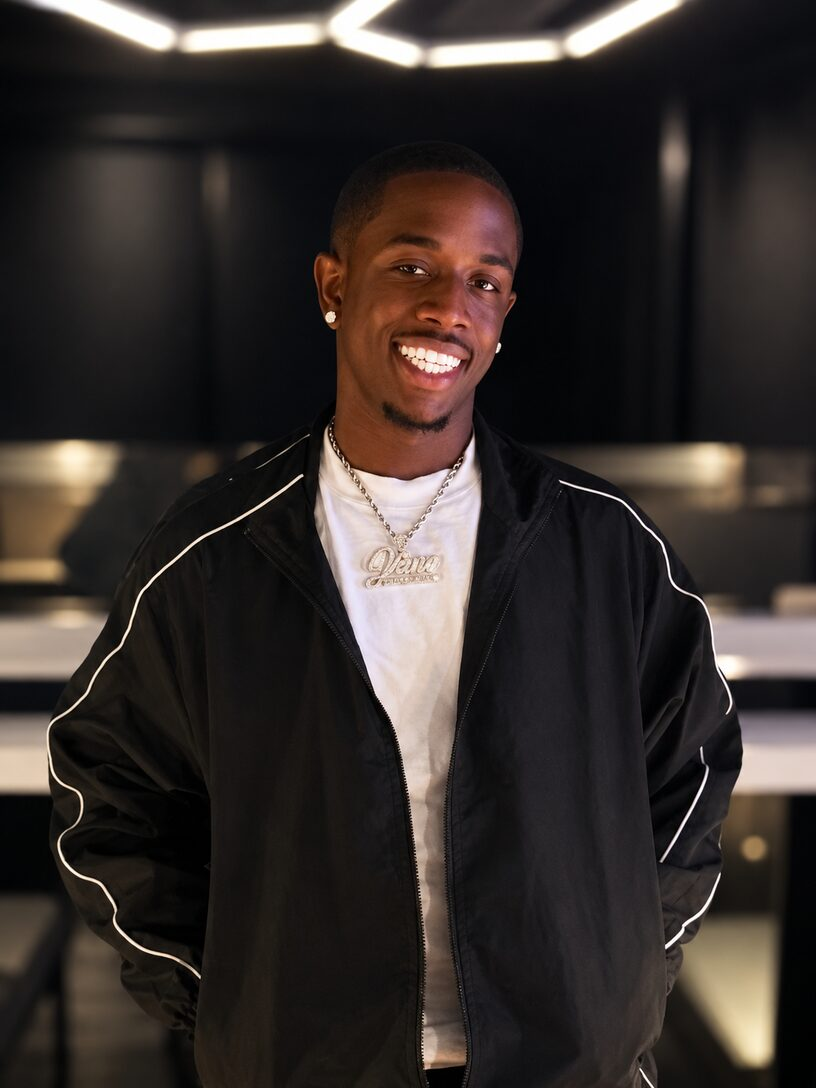
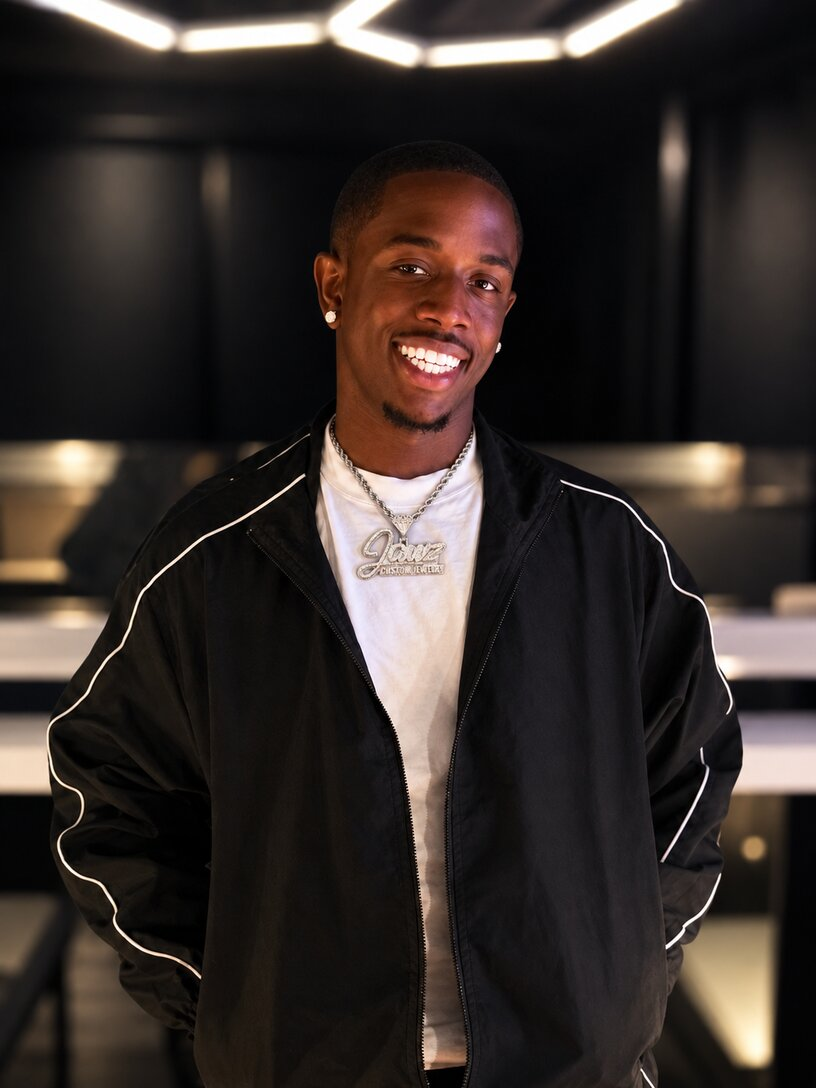
Replace Jeremy's photo with a new one (6adc7afeff3a2235cf74164e)

diff --git a/src/App.tsx b/src/App.tsx
@@ -674,7 +674,7 @@ export default function App() {
               <figure className="w-full max-w-md mx-auto border border-[#D4D4D8]/30 rounded-sm overflow-hidden">
                 <img
                   src={ownerPortrait}
-                  alt="Jeremy King, owner of Jawz Custom Jewelry, smiling in the studio wearing a custom pendant"
+                  alt="Jeremy King, owner of Jawz Custom Jewelry, smiling in the studio wearing a custom Jawz pendant and black track jacket"
                   width={816}
                   height={1088}
                   loading="lazy"
